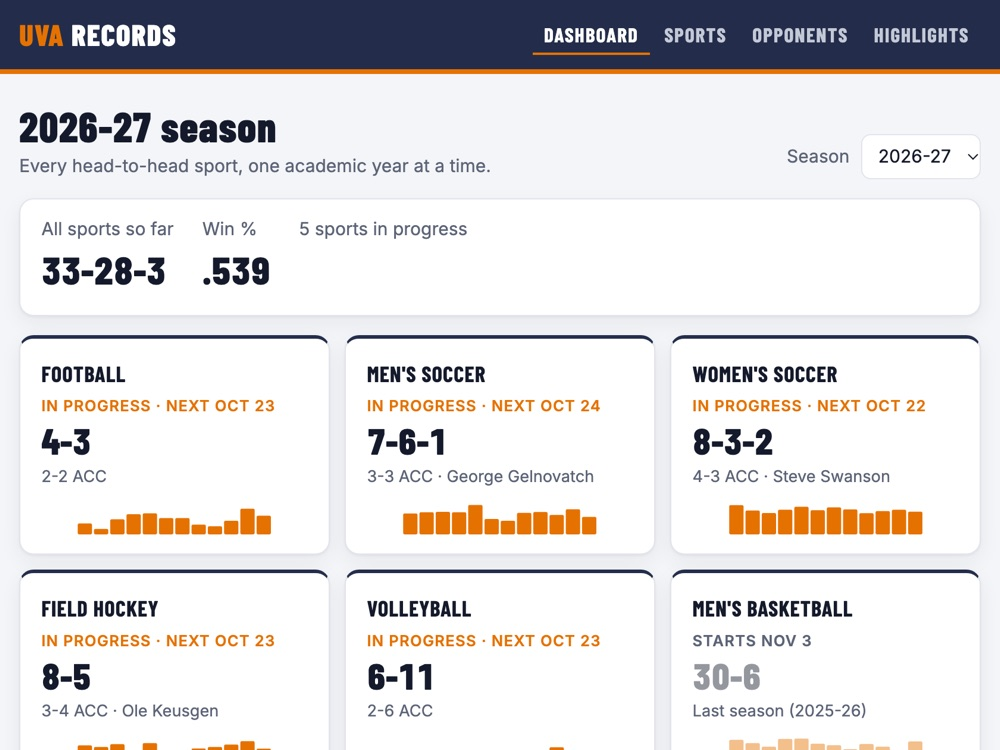
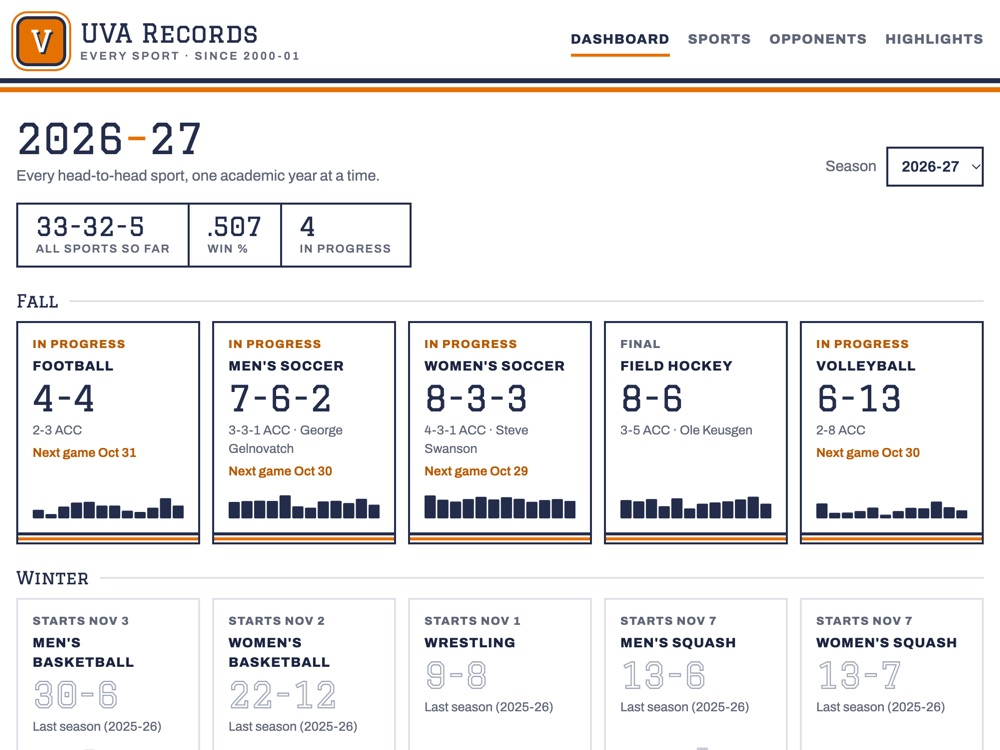
feat(projects): new uva-records screenshot after its redesign

diff --git a/index.html b/index.html
@@ -105,7 +105,7 @@
         <h2 class="label rule-title">More projects</h2>
         <div class="cards">
           <article class="card">
-            <a class="shot" href="https://mattrudy13.github.io/uva-records/"><img src="img/uva-records.jpg" width="1000" height="750" loading="lazy" alt="UVA Records dashboard for the 2026-27 season: the all-sports record and a card per sport with its record and win chart"></a>
+            <a class="shot" href="https://mattrudy13.github.io/uva-records/"><img src="img/uva-records.jpg" width="1000" height="750" loading="lazy" alt="UVA Records dashboard for the 2026-27 season: the all-sports record and a tile per sport with its record and win chart, grouped by fall, winter and spring"></a>
             <h3>UVA sports records</h3>
             <p>Game-by-game results for 16 UVA varsity sports since 2000-01. The school's data has flipped results and unmarked exhibitions, so every season is checked against the official record books, with each fix logged by source.</p>
             <p class="stack">Python · data validation · GitHub Actions</p>
